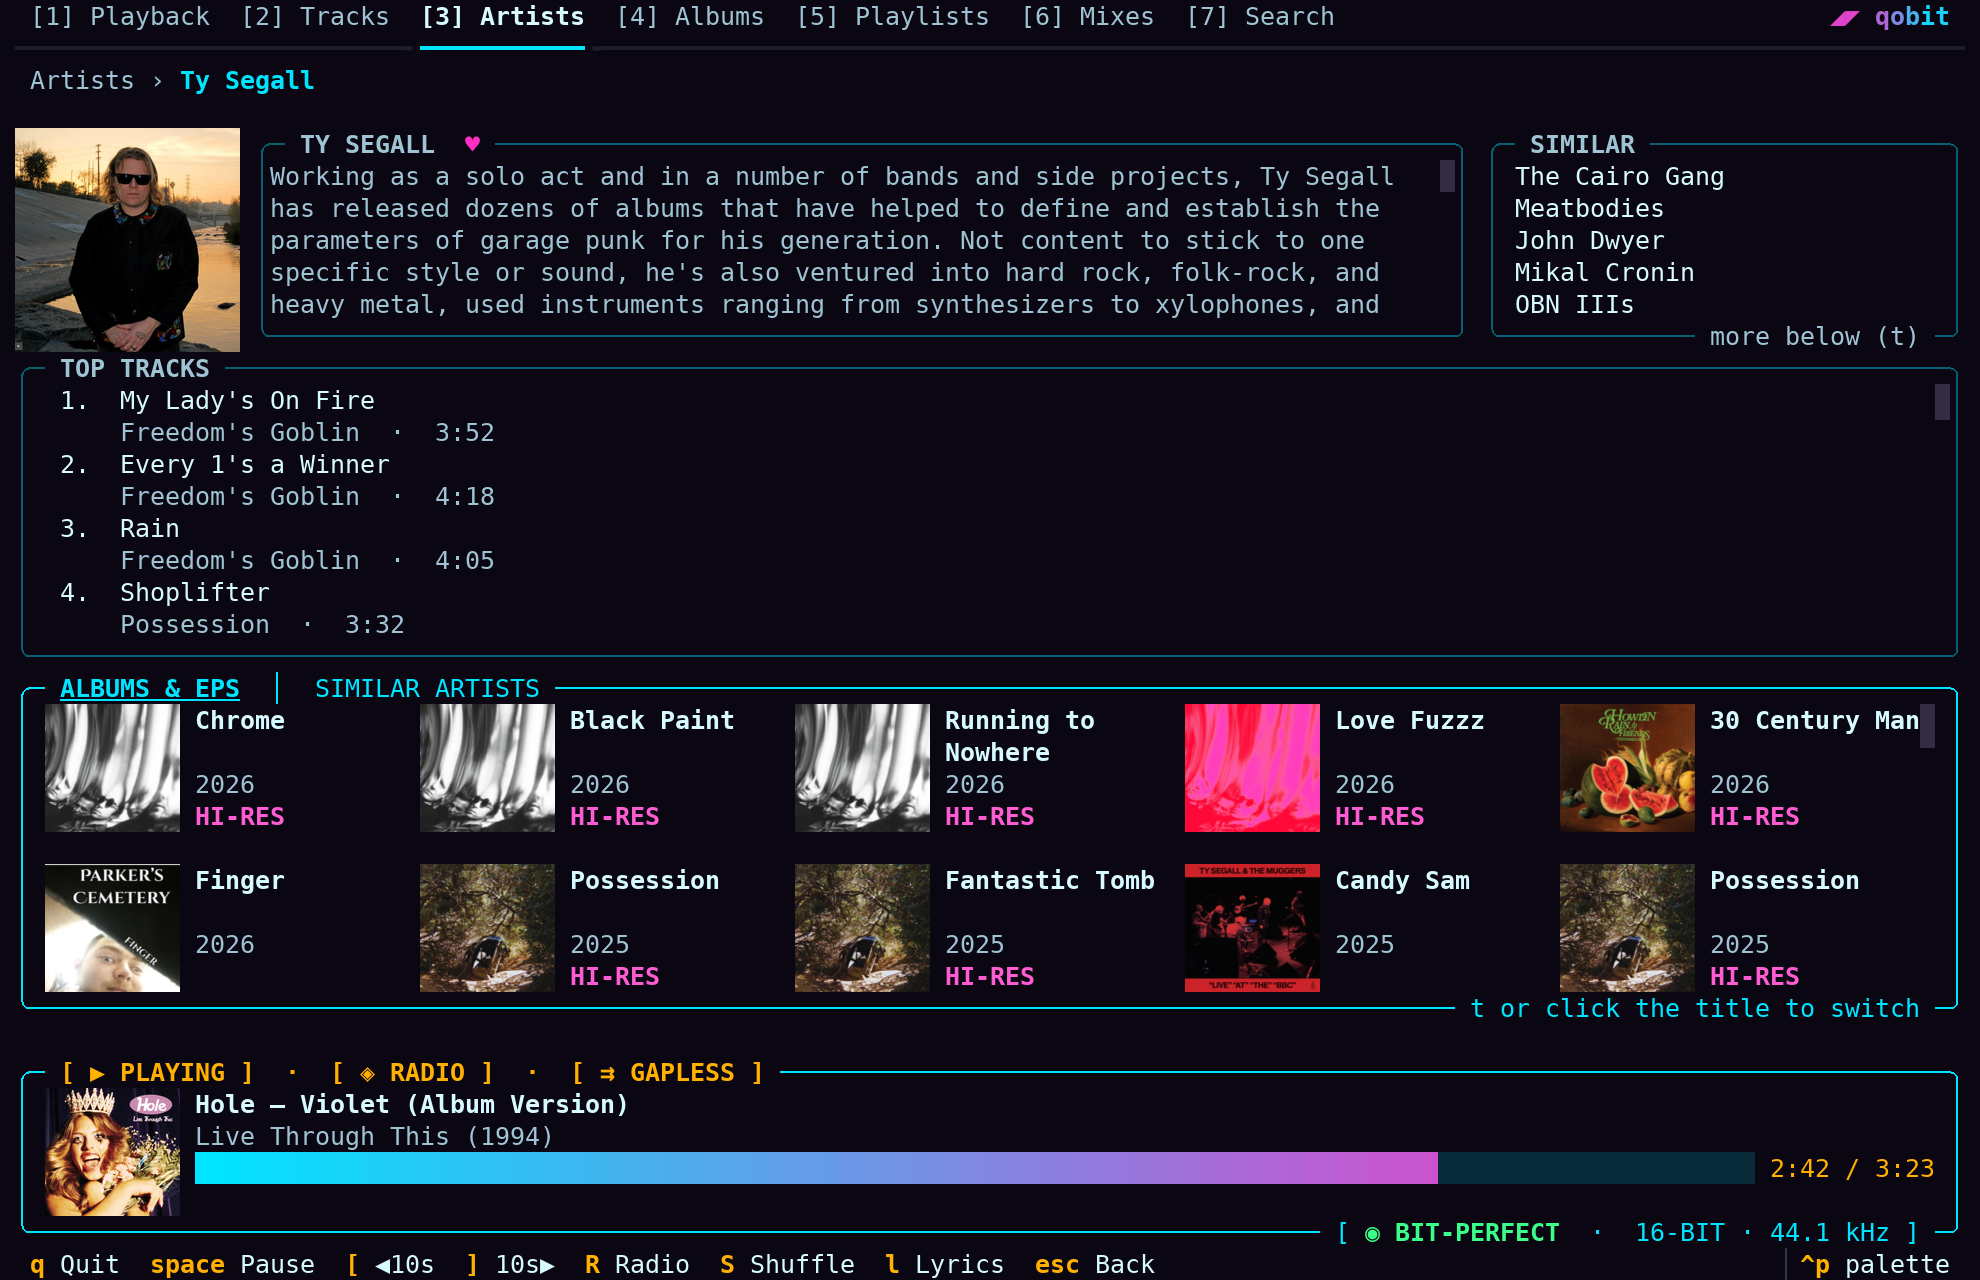
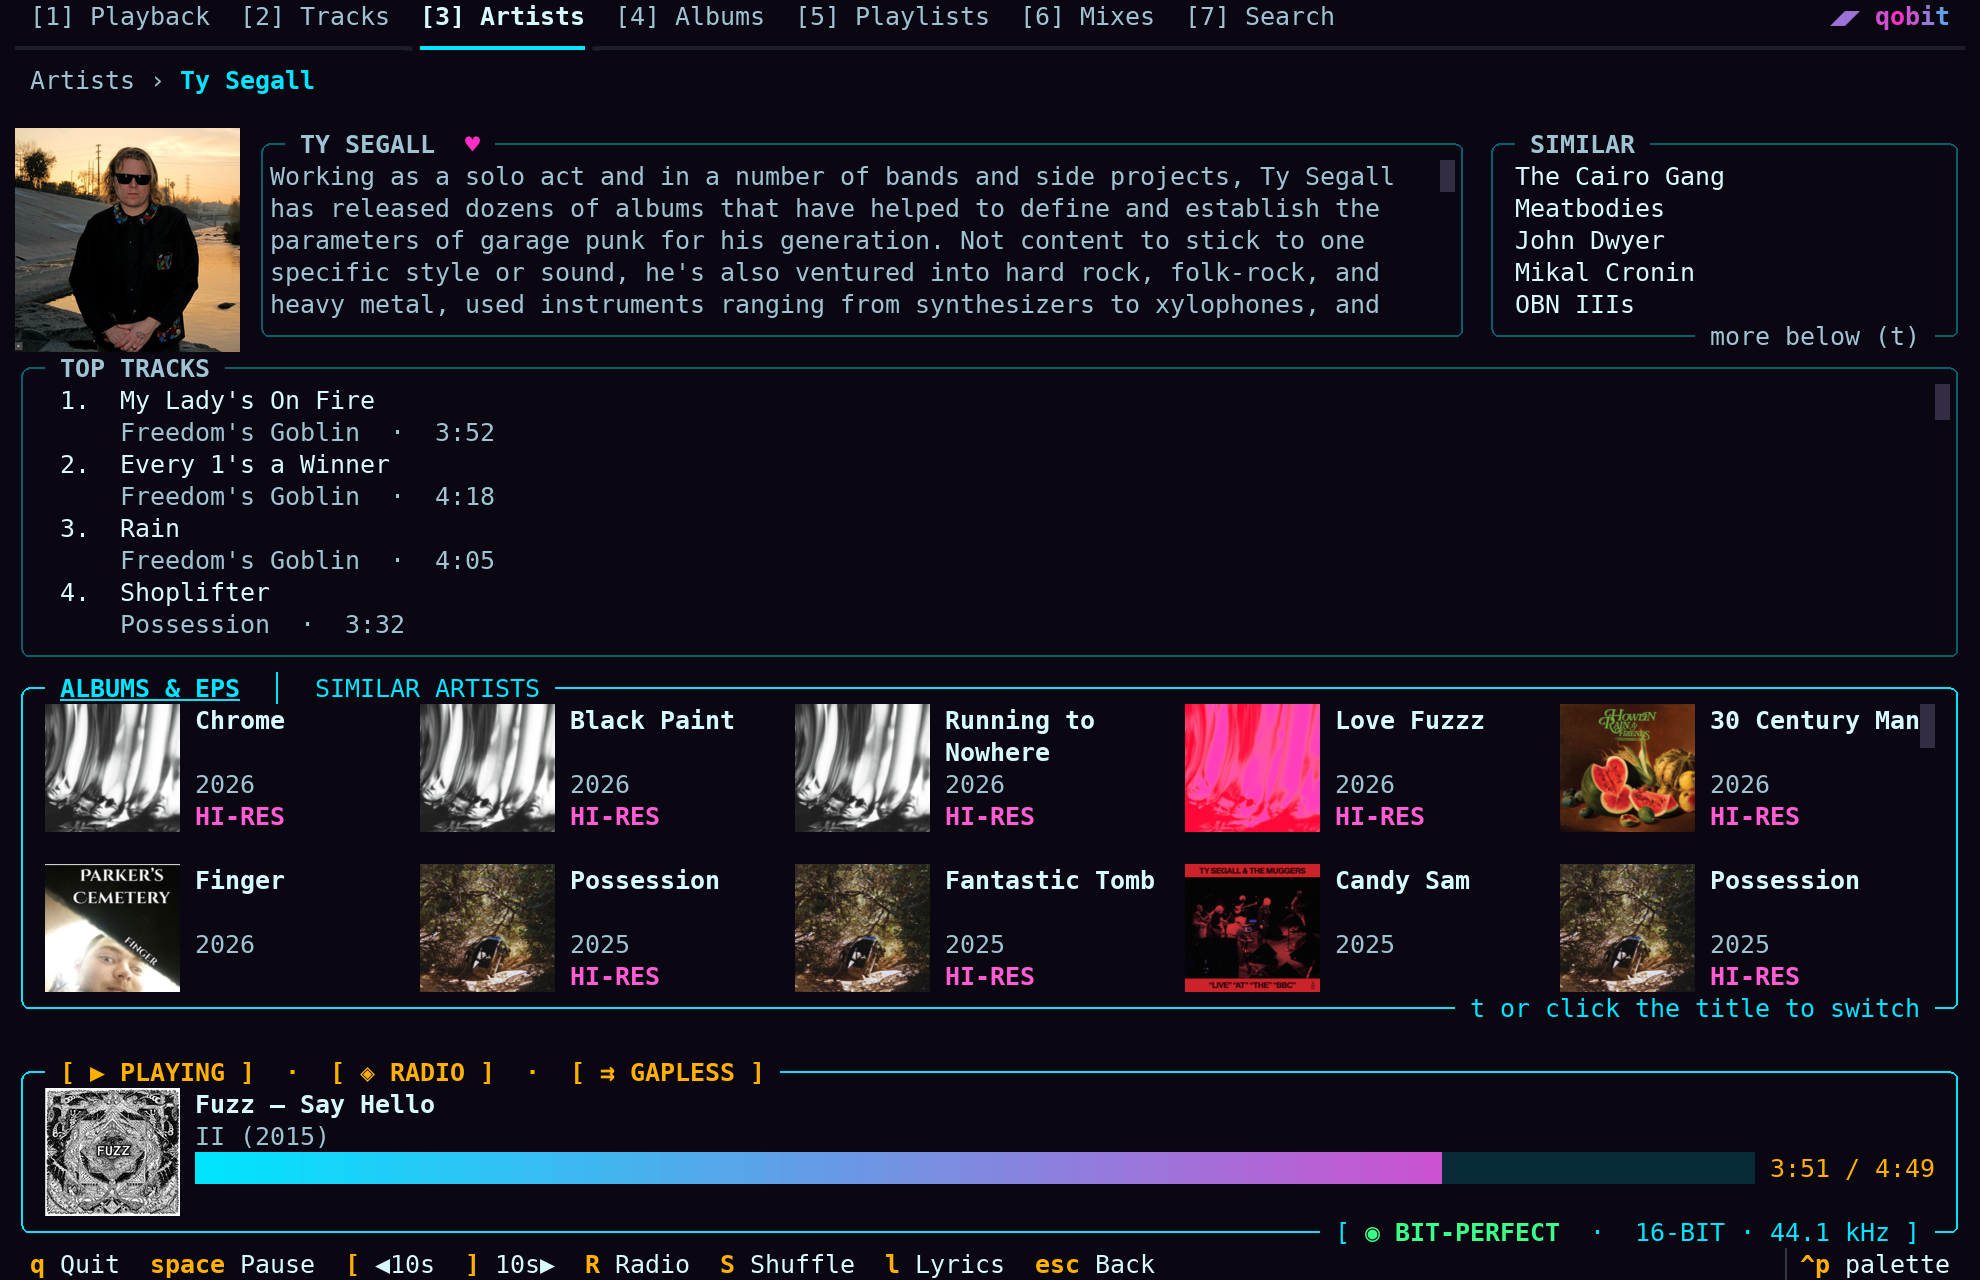
fix: lyrics review (sanitise LRCLIB text, best-effort cache, stale widths)
LRCLIB text goes through clean_json (it is user-submitted). A cache write
that fails no longer closes the app. Offset/reject writes are dropped after
a logout. "Part N" must match. Turning lyrics off in three columns gives
the fixed widths back. The Playback screenshot plays Fuzz. Changelog and
docs updated.

Changed region(s): [[0.0, 0.8438, 0.3081, 0.9688], [0.9242, 0.0, 0.9859, 0.0312], [0.8934, 0.9062, 0.9242, 0.9375]]

diff --git a/tests/test_lyrics_core.py b/tests/test_lyrics_core.py
@@ -416,3 +416,46 @@ def test_service_reject_and_offset_are_remembered_with_the_answer():
 
 def test_service_with_no_providers_finds_nothing():
     assert asyncio.run(LyricsService([]).lookup(Q)).status == "none"
+
+
+# ── what the review found ────────────────────────────────────────────────────
+
+
+def test_lrclib_text_has_its_terminal_escapes_removed():
+    """LRCLIB is user-submitted: an OSC 52 in a line must not reach the terminal."""
+    evil = "[00:10.00]ok\x1b]52;c;ZXZpbA==\x07 done\x9b31m"
+    provider, _ = _lrclib(lambda r: httpx.Response(200, json=_row(syncedLyrics=evil)))
+    got = asyncio.run(provider.find(Q))
+    assert "\x1b" not in got.lines[0].text and "\x07" not in got.lines[0].text
+    assert "\x9b" not in got.lines[0].text
+
+
+def test_a_part_number_is_a_different_song():
+    q = Query("Echoes (Part 2)", "Radiohead", "", 245)
+    other = _cand(title="Echoes (Part 1)", duration=249.0, plain="words")
+    assert pick(q, [other]) is None
+    assert pick(q, [_cand(title="Echoes (Part 2)", duration=245.0, plain="words")]) is not None
+
+
+def test_service_a_cache_that_cannot_be_written_costs_the_cache_not_the_app(monkeypatch):
+    def boom(*a, **k):
+        raise PermissionError("read-only")
+
+    monkeypatch.setattr(lyrics_cache, "save", boom)
+    monkeypatch.setattr(lyrics_cache, "update", boom)
+    service = LyricsService([Fake(LY)])
+
+    async def run():
+        got = await service.lookup(Q)
+        await service.set_offset(Q, 0.5)
+        await service.reject(Q)
+        return got
+
+    assert asyncio.run(run()).status == "found"
+
+
+def test_cache_an_offset_decided_before_an_erase_is_dropped():
+    since = lyrics_cache.epoch()
+    lyrics_cache.clear()
+    lyrics_cache.update(Q, offset=1.0, since=since)
+    assert lyrics_cache.load(Q) is None

diff --git a/src/qobit/lyrics/service.py b/src/qobit/lyrics/service.py
@@ -7,6 +7,7 @@ UI-agnostic. ``lookup`` never raises: offline or a provider down is a
 from __future__ import annotations
 
 import asyncio
+import contextlib
 from dataclasses import dataclass
 
 from . import cache
@@ -59,18 +60,25 @@ class LyricsService:
                 failed = True
                 continue
             if lyrics is not None:
-                await asyncio.to_thread(cache.save, query, lyrics, since)
+                await _remember(cache.save, query, lyrics, since)
                 return _result(lyrics, offset)
         if failed:
             return Result("failed", offset=offset)
-        await asyncio.to_thread(cache.save, query, None, since)
+        await _remember(cache.save, query, None, since)
         return Result("none", offset=offset)
 
     async def set_offset(self, query: Query, offset: float) -> None:
-        await asyncio.to_thread(cache.update, query, offset=offset)
+        await _remember(cache.update, query, offset=offset, since=cache.epoch())
 
     async def reject(self, query: Query) -> None:
-        await asyncio.to_thread(cache.update, query, reject=True)
+        await _remember(cache.update, query, reject=True, since=cache.epoch())
+
+
+async def _remember(write, *args, **kwargs) -> None:
+    """A cache write that can't happen (disk full, read-only ~/.cache) costs
+    the cache, not the app: a failing @work worker would close it."""
+    with contextlib.suppress(OSError, ValueError):
+        await asyncio.to_thread(write, *args, **kwargs)
 
 
 def _result(lyrics: Lyrics | None, offset: float) -> Result:

diff --git a/scripts/screenshots.py b/scripts/screenshots.py
@@ -5,7 +5,7 @@ first: ``qobit auth``), and draws its screen to a PNG cell by cell, with the
 cover art pasted over the image cells at full resolution, as a Kitty-protocol
 terminal shows them. Not a terminal capture: no terminal is involved.
 
-What it shows: the cyberdeck theme, The Verve's "Bitter Sweet Symphony" playing
+What it shows: the cyberdeck theme, Fuzz's "Say Hello" playing
 (no audio is started: the play state is set, the track, album, bio and lyrics
 are the real ones: the lyrics come from LRCLIB, the one request that isn't to
 Qobuz), a progress bar past 75% so its gradient shows, and your real favourites
@@ -43,7 +43,7 @@ COLS, ROWS = 132, 40  # wide enough for the artist page's two track lists + Simi
 CELL_W, CELL_H = 15, 32  # a 2x capture of a 7.5 x 16 px cell
 FONT_PX = 25  # DejaVu Sans Mono's advance at this size: 15 px
 
-NOW_PLAYING = ("Hole", "Violet")  # timed lyrics running past 75% of the track
+NOW_PLAYING = ("Fuzz", "Say Hello")  # timed lyrics, from a band of the artists on the other shots
 ARTIST_PAGE = "Ty Segall"
 ALBUM_PAGE = ("Ty Segall", "Possession")  # an English bio, and a HI-RES readout
 # Scenes that need another size: the Playback tab is 160 wide so the queue, the

diff --git a/tests/test_lyrics_app.py b/tests/test_lyrics_app.py
@@ -814,3 +814,19 @@ def test_each_section_rule_gives_the_count_and_the_playing_time(lyr):
     assert any("RECENTLY PLAYED" in ln and "2  ·  7:27" in ln for ln in lines)
     assert any("UP NEXT" in ln and "2  ·  12:09" in ln for ln in lines)
     assert not any("queued" in ln or "played" in ln.replace("RECENTLY PLAYED", "") for ln in lines)
+
+
+def test_turning_lyrics_off_in_the_three_column_layout_gives_the_cells_back(lyr):
+    async def body():
+        async with lyr.app.run_test(size=(180, 40)) as pilot:
+            await pilot.pause(0.5)
+            view, hero, _ = _pane(lyr.app)
+            assert view.has_class("-side") and hero.styles.width.unit.name == "CELLS"
+            lyr.app.lyrics_enabled = False  # no resize follows
+            await pilot.pause(0.5)
+            assert not view.has_class("-side")
+            assert hero.styles.width is None or hero.styles.width.unit.name != "CELLS"
+            side = view.query_one("#side")
+            assert hero.region.width == side.region.width  # the hero fills its pane
+
+    _run(body)

diff --git a/src/qobit/lyrics/cache.py b/src/qobit/lyrics/cache.py
@@ -119,10 +119,19 @@ def save(query: Query, lyrics: Lyrics | None, since: int | None = None) -> None:
         _write(query, entry)
 
 
-def update(query: Query, *, offset: float | None = None, reject: bool = False) -> None:
+def update(
+    query: Query,
+    *,
+    offset: float | None = None,
+    reject: bool = False,
+    since: int | None = None,
+) -> None:
     """The reader's choices: a new offset, or these lyrics are wrong (they
-    stop showing; the answer is kept so it is not asked for again)."""
+    stop showing; the answer is kept so it is not asked for again). Nothing
+    if the files were erased after ``since``."""
     with _lock:
+        if since is not None and since != _epoch:
+            return
         entry = load(query) or Entry(lyrics=None, fetched_at=time.time())
         if offset is not None:
             entry.offset = offset

diff --git a/src/qobit/lyrics/matching.py b/src/qobit/lyrics/matching.py
@@ -59,6 +59,7 @@ _VARIANT_WORDS = frozenset(
     }
 )
 _SUFFIX = re.compile(r"\s[-–—]\s(.*)$")
+_PART = re.compile(r"\b(?:part|pt)\.?\s*(\d+|[ivx]+)\b")  # "Part 2" is another song
 
 
 def variant(title: str) -> frozenset[str]:
@@ -68,7 +69,8 @@ def variant(title: str) -> frozenset[str]:
     if m := _SUFFIX.search(text):
         parts.append(m.group(1))
     words = {w for part in parts for w in re.findall(r"[^\W\d_]+", part)}
-    return frozenset(words & _VARIANT_WORDS)
+    numbered = {f"part {m.group(1)}" for part in parts for m in _PART.finditer(part)}
+    return frozenset(words & _VARIANT_WORDS) | numbered
 
 
 def _artists(name: str) -> set[str]:

diff --git a/src/qobit/ui/app.py b/src/qobit/ui/app.py
@@ -1633,8 +1633,10 @@ class QobitApp(App[None]):
         self.lyrics_version += 1  # the subtitle shows the offset
         self._flash_status(f"Lyrics {self.lyrics_offset:+.1f} s")
 
-    @work(group="_save_lyrics_offset")
+    @work(group="_save_lyrics_offset", exclusive=True)
     async def _save_lyrics_offset(self, query: Query, offset: float) -> None:
+        if query is self._lyrics_query:  # quick presses: the latest one is what is saved
+            offset = self.lyrics_offset
         await self._lyrics.set_offset(query, offset)
 
     def action_lyrics_reject(self) -> None:

diff --git a/src/qobit/lyrics/providers.py b/src/qobit/lyrics/providers.py
@@ -16,6 +16,7 @@ from typing import Any, Protocol
 import httpx
 
 from .. import __version__
+from ..qobuz.sanitize import clean_json
 from .matching import Candidate, pick
 from .model import Lyrics, Query
 
@@ -100,6 +101,6 @@ class LrcLib:
         if r.status_code != 200:
             raise ProviderError(f"{self.name}: HTTP {r.status_code}")
         try:
-            return r.json()
+            return clean_json(r.json())
         except ValueError as e:
             raise ProviderError(f"{self.name}: unreadable answer") from e

diff --git a/src/qobit/ui/screens/queue.py b/src/qobit/ui/screens/queue.py
@@ -546,6 +546,7 @@ class QueueView(Widget):
         focused = self.app.focused
         if swapped and focused is not None and focused.id == "now-hero":
             self.query_one("#queue-list", ListView).focus()  # the hero just went
+        self.call_after_refresh(self._proportion)  # the cell widths follow -side
 
     def lyrics_swap(self) -> bool:
         """Whether the hero and the lyrics take turns here (`l` swaps them):

diff --git a/CHANGELOG.md b/CHANGELOG.md
@@ -14,18 +14,27 @@ workflow publishes to PyPI and creates the GitHub release from this entry.
 - **Lyrics.** The lyrics of the playing track, with the line being sung
   highlighted. The Playback tab shows them with the Now Playing details when
   there is room: side by side on a wide terminal, one above the other on a
-  tall one, else `l` swaps the two. `L` opens the lyrics over the whole
-  screen (`l` does too when both already show, or on a narrow terminal). `,` and `.` shift the timing by half a second
-  for the track, `x` removes lyrics that are wrong, and both are remembered.
-  Lyrics come from [LRCLIB](https://lrclib.net); timed ones follow the music,
-  the rest show as scrollable text, and instrumentals say so. Lyrics are
-  checked against the track (title, artist, and length within 2.5 s for timed
-  ones) so another recording's don't show. They are looked up when a track
-  starts, and for the next one near the end of this one, and cached in
-  `~/.cache/qobit/lyrics`. Each lookup sends the track's artist, title, album
-  and length to LRCLIB: `qobit --no-lyrics` turns it off for one run, "Lyrics"
-  in the command palette saves the choice. Logout erases the cache and
-  `qobit clear-cache --lyrics` clears it.
+  tall one, else `l` swaps the two. `L` opens the lyrics over the whole screen
+  (`l` does too when both already show, or on a narrow terminal). `,` and `.`
+  shift the timing by half a second for the track, `x` removes lyrics that are
+  wrong, and both are remembered. Lyrics come from [LRCLIB](https://lrclib.net);
+  timed ones follow the music, the rest show as scrollable text, and
+  instrumentals say so. They are checked against the track (title, artist, and
+  length within 2.5 s for timed ones) so another recording's don't show. They
+  are looked up when a track starts, and for the next one near the end of this
+  one, and cached in `~/.cache/qobit/lyrics`. Each lookup sends the track's
+  artist, title, album and length to LRCLIB: `qobit --no-lyrics` turns it off
+  for one run, "Lyrics" in the command palette saves the choice. Logout erases
+  the cache and `qobit clear-cache --lyrics` clears it.
+
+### Changed
+
+- The Playback tab's columns are sized by the room: queue 60% and the right
+  pane 40% in two columns; queue 40%, now playing 30% and lyrics 30% in three,
+  the now-playing panel taking more of a wider terminal.
+- Queue rows show the duration at the right edge. The Recently Played and Up
+  Next rules give the count and the playing time, and the Up Next numbers are
+  muted.
 - The footer hides the keys that don't fit, last first, instead of cutting
   one in half.
 

diff --git a/docs/usage.md b/docs/usage.md
@@ -121,10 +121,10 @@ See [Audio setup](audio.md#gapless-playback).
 line (untimed ones scroll with the arrow and page keys; instrumentals say so).
 The Playback tab shows them next to Now Playing: side by side from about 140
 columns, one above the other from about 36 rows, else `l` swaps the two
-(remembered; each panel's border names the key). `L`, or `l` where both
-already show, on a narrow terminal or on another tab, opens them full screen. `,` and `.`
-shift the timing of this track, and `x` removes wrong lyrics for it; both are
-remembered. They are looked up as a track starts (and the next one's near the
+(remembered; each panel's border names the key). `L` opens them full screen,
+as does `l` where both already show, on a narrow terminal or on another tab.
+`,` and `.` shift the timing of this track, and `x` removes wrong lyrics for
+it; both are remembered. They are looked up as a track starts (and the next one's near the
 end), checked against the track, and cached in `~/.cache/qobit/lyrics`.
 **Each lookup sends the track's artist, title, album and length to LRCLIB**:
 `qobit --no-lyrics` turns them off for one run and `Ctrl+P` → *Lyrics* saves the

diff --git a/CLAUDE.md b/CLAUDE.md
@@ -153,8 +153,10 @@ asks the disk cache, then each provider; a provider error is a `failed` result
 and never cached, nothing found is cached as none for a week. `LrcLib` asks
 `/api/get` (exact), then `/api/search`, and every answer goes through
 `matching.pick`: title and one artist equal after `fold`, timed lyrics within
-`SYNC_TOLERANCE` (2.5 s) of the length, text within `PLAIN_TOLERANCE`; never
-take a first search result. `lyrics_line` is recomputed on each position tick
+`SYNC_TOLERANCE` (2.5 s) of the length, text within `PLAIN_TOLERANCE`, the
+same "Part N"; never take a first search result. LRCLIB is user-submitted:
+its answers go through `sanitize.clean_json` like Qobuz's. A cache write that
+fails is swallowed (`service._remember`): a raising worker closes the app. `lyrics_line` is recomputed on each position tick
 but changes only with the line (`_LYRICS_LEAD` covers the 0.5 s poll), so
 `LyricsView` redraws once per line; it draws a window of centred rows itself
 (Textual drops Rich's `justify`; the SVG screenshot collapses unstyled
